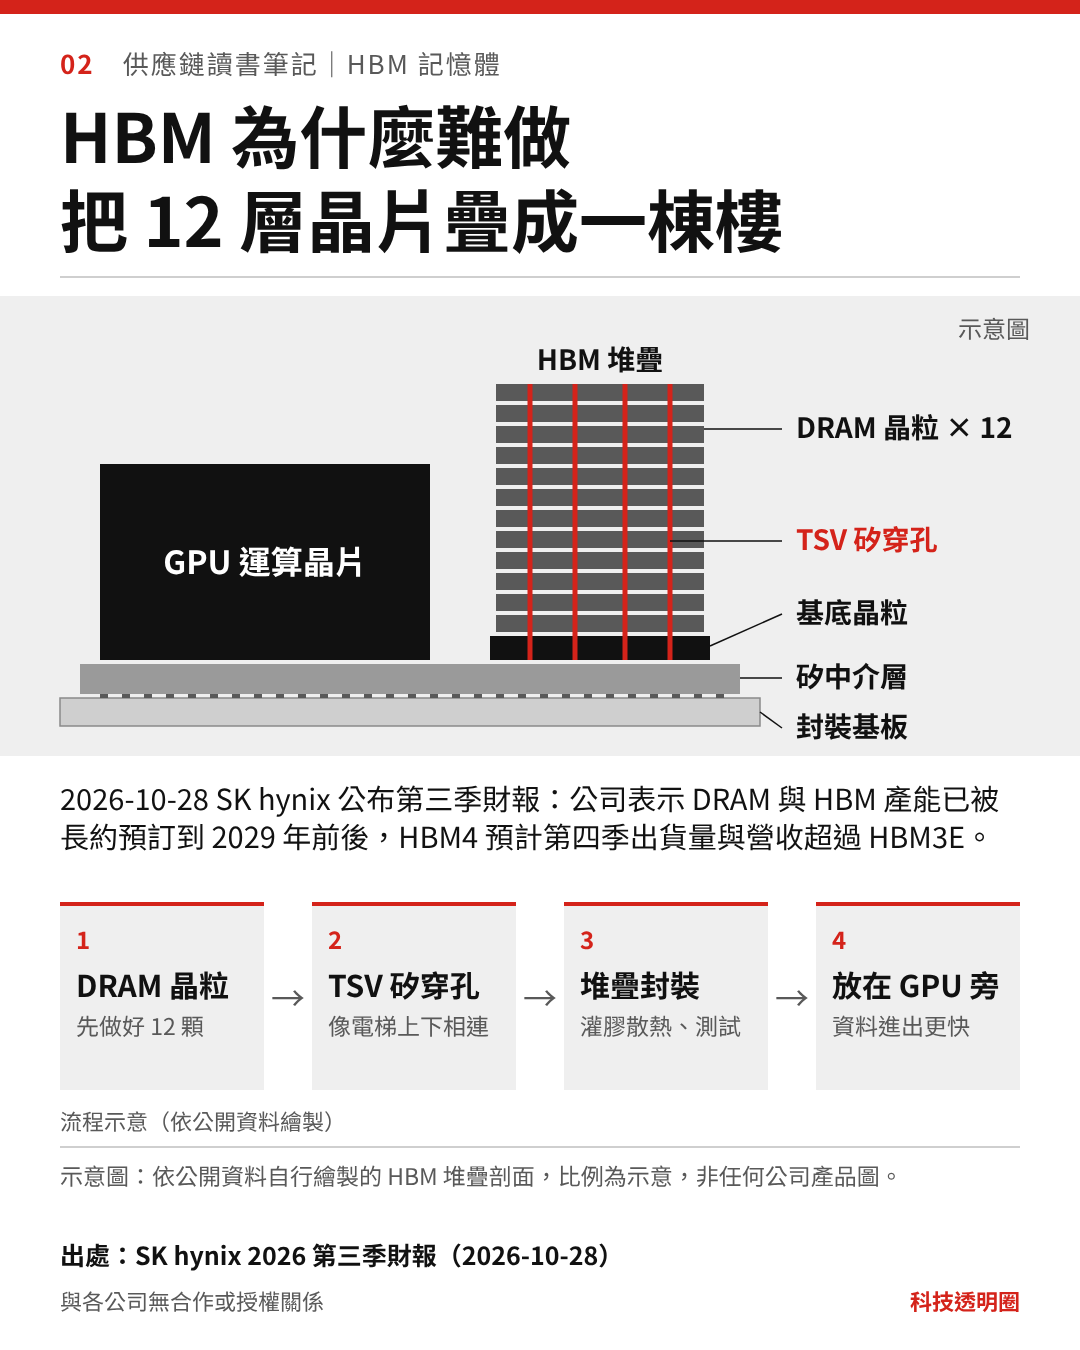
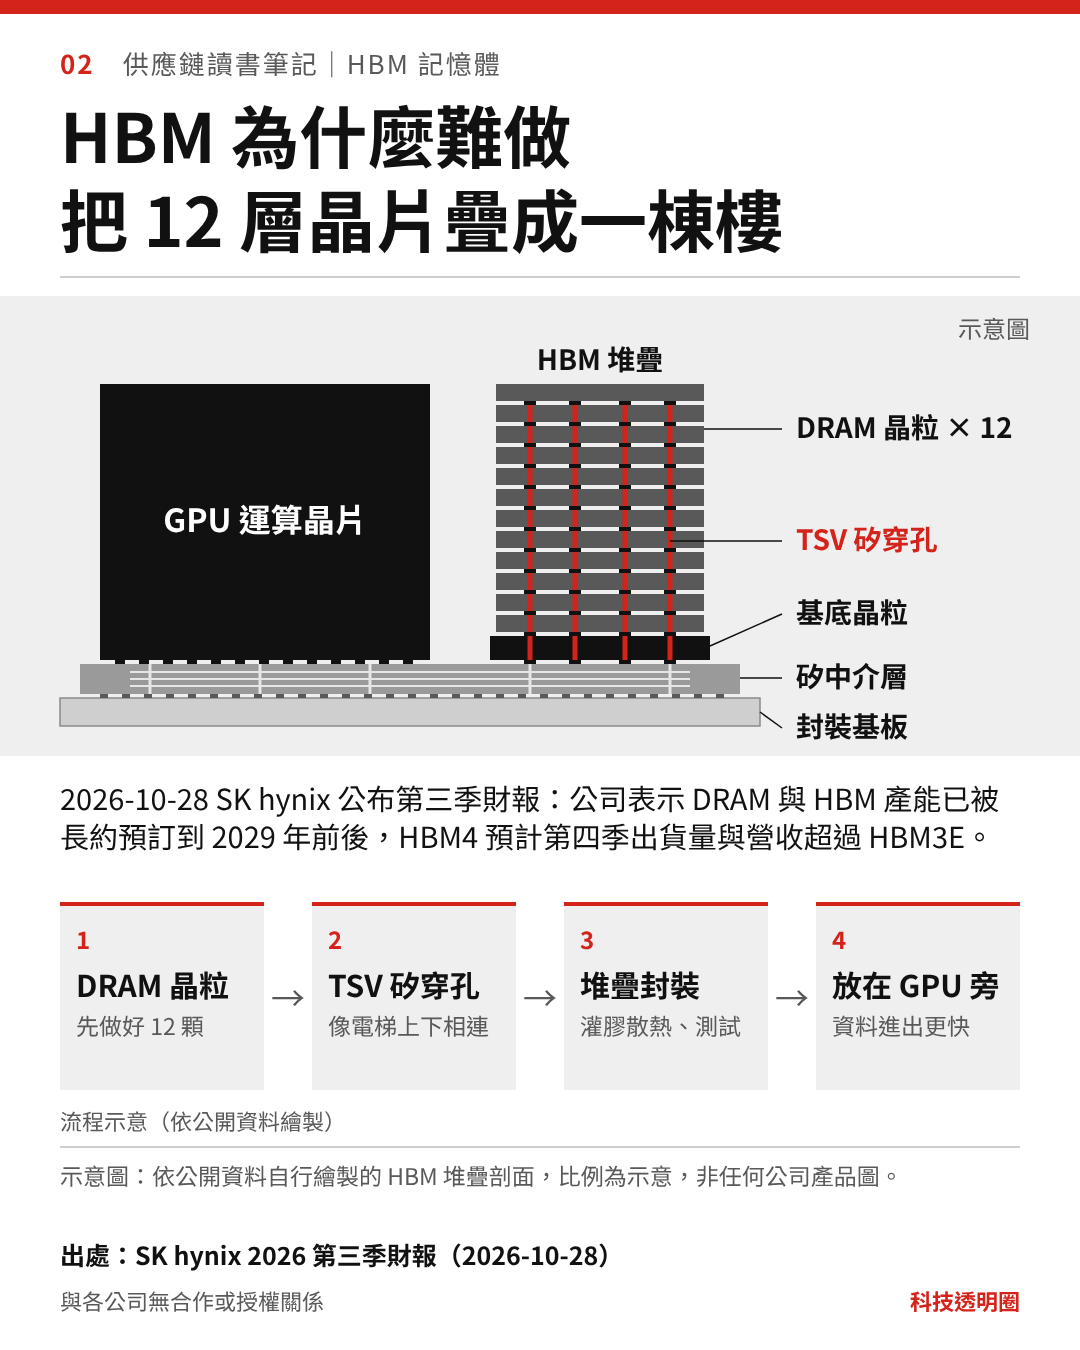
TC 02 HBM 示意圖結構簽核：補微凸塊與中介層走線、TSV 不穿頂層、GPU 與堆疊等高；貼文加限定語
Claude-Session: https://claude.ai/code/session_018gakVRNRsek4G6osuECGNS

diff --git a/docs/marketing/channels/tc/samples/20261104/review.md b/docs/marketing/channels/tc/samples/20261104/review.md
@@ -48,3 +48,28 @@
 
 ## 重出圖方式
 `TC_FONT=<NotoSansTC.ttf 路徑> TW_CHROME=<chromium 路徑> python render.py`
+
+
+## mechanical-engineer 結構簽核（2026-11-04）
+
+結論：**修正後通過**（標「示意圖」前提）。依據為公開資料交叉比對，查不到 TSMC／JEDEC 原文剖面圖，信心度中（結構通則多來源一致，細部尺寸無一手來源，故不標尺寸）。
+
+| 項目 | 結果 | 說明 |
+|---|---|---|
+| 層序（基板→矽中介層→基底晶粒→DRAM×12） | 過 | 與 CoWoS-S 2.5D 通則一致；GPU 與 HBM 並排在同一片中介層上，正確 |
+| TSV 位置與貫穿 | 改後過 | 原圖 TSV 連最上層都貫穿；實務最上層 DRAM 不需 TSV，已改為止於第 11 層頂、不穿最上層 |
+| 微凸塊 | 改後過 | 原圖層間與晶粒底下沒有凸塊，看起來像 TSV 直通；已補層間、基底晶粒下、GPU 下的微凸塊 |
+| 中介層功能 | 改後過 | 原圖中介層是一塊灰板；已補 GPU 與 HBM 間的水平走線（淺色）與中介層內短 TSV（淺灰，不加標註，避免與紅色 TSV 混淆） |
+| 相對高度 | 改後過 | 原圖 HBM 堆疊比 GPU 高約四成；實物兩者厚度相近，已把 GPU 與堆疊等高。晶粒厚度、寬度比仍屬示意（圖已標「示意圖」） |
+| 基底晶粒比 DRAM 厚且略寬 | 過 | 與公開描述一致 |
+| 標示文字 | 過 | 五項標示無誤；層數 12 為示意（HBM 另有 4／8／16 層） |
+| 貼文：TSV「像電梯」 | 加限定 | 比喻可用，已加「（比喻）」；TSV 實為貫穿矽的垂直導線，同時傳訊號與供電 |
+| 貼文：MR-MUF 灌注填縫 | 過，補一句 | 公開說明為先整批回焊接合、再以液態模封材料灌入層間；加上「也幫助導熱」。僅 SK hynix 採用此名稱，文中已寫「SK hynix 自己的做法」，保持 |
+| 貼文：疊 12 層任一層壞整疊報廢 | 加限定 | 良率連乘屬實，但「一定整疊報廢」過頭（部分情況可測後篩選、重工）；改為「良率會連乘，任何一層有問題，整疊都可能報廢」 |
+| 貼文：HBM＝12 顆 | 加限定 | HBM 有 4／8／12／16 層；改為「多顆（以 12 層為例）」 |
+
+來源：
+- MR-MUF 作法與導熱：SK hynix ECTC 2023 論文（https://conferences.computer.org/ectc/pdfs/ECTC2023-1NkkviSxgDnmPjptC1ysqm/349800a878/349800a878.pdf）、TrendForce（https://www.trendforce.com/news/?p=10216），信心度中高（公司自家說法，14°C 數據為公司論文）
+- HBM 堆疊與 CoWoS-S 結構通則：bestpcbs.com CoWoS-S 系列、regantih.github.io 12-cowos-hbm 章節、SemiWiki TCB 文章，皆為二手整理，信心度中；未找到 TSMC／JEDEC 一手剖面圖
+
+重出：已依 TC_FONT、TW_CHROME 重跑 render.py，重疊檢查程式 3 張 0 筆；人工看過 02 全解析度 0 筆重疊。

diff --git a/docs/marketing/channels/tc/samples/20261104/02/image_sources.md b/docs/marketing/channels/tc/samples/20261104/02/image_sources.md
@@ -9,5 +9,5 @@
 | 取代原因 | 原用 repo 圖庫「記憶體/photo_5」（一般 DDR4 模組，晶片上有記憶體廠牌標記，易與文中 SK hynix 混淆）；圖庫其餘記憶體照也都是有廠牌的模組／舊式晶片，故改自繪 |
 | 圖上標示 | 圖框右上「示意圖」；出處列「示意圖：依公開資料自行繪製…非任何公司產品圖」 |
 | LOGO | 無；文末一句「與各公司無合作或授權關係」 |
-| 審核 | 美編（art-director）複審 2026-11-04 通過；結構（mechanical-engineer）審：待 CEO 派工（本環境無法派 Agent） |
+| 審核 | 美編（art-director）複審 2026-11-04 通過；結構（mechanical-engineer）審 2026-11-04：通過（修正後），見 review.md「mechanical-engineer 結構簽核」 |
 | 禁止項檢查 | 非新聞照、非 AI 生成、無比比 |
